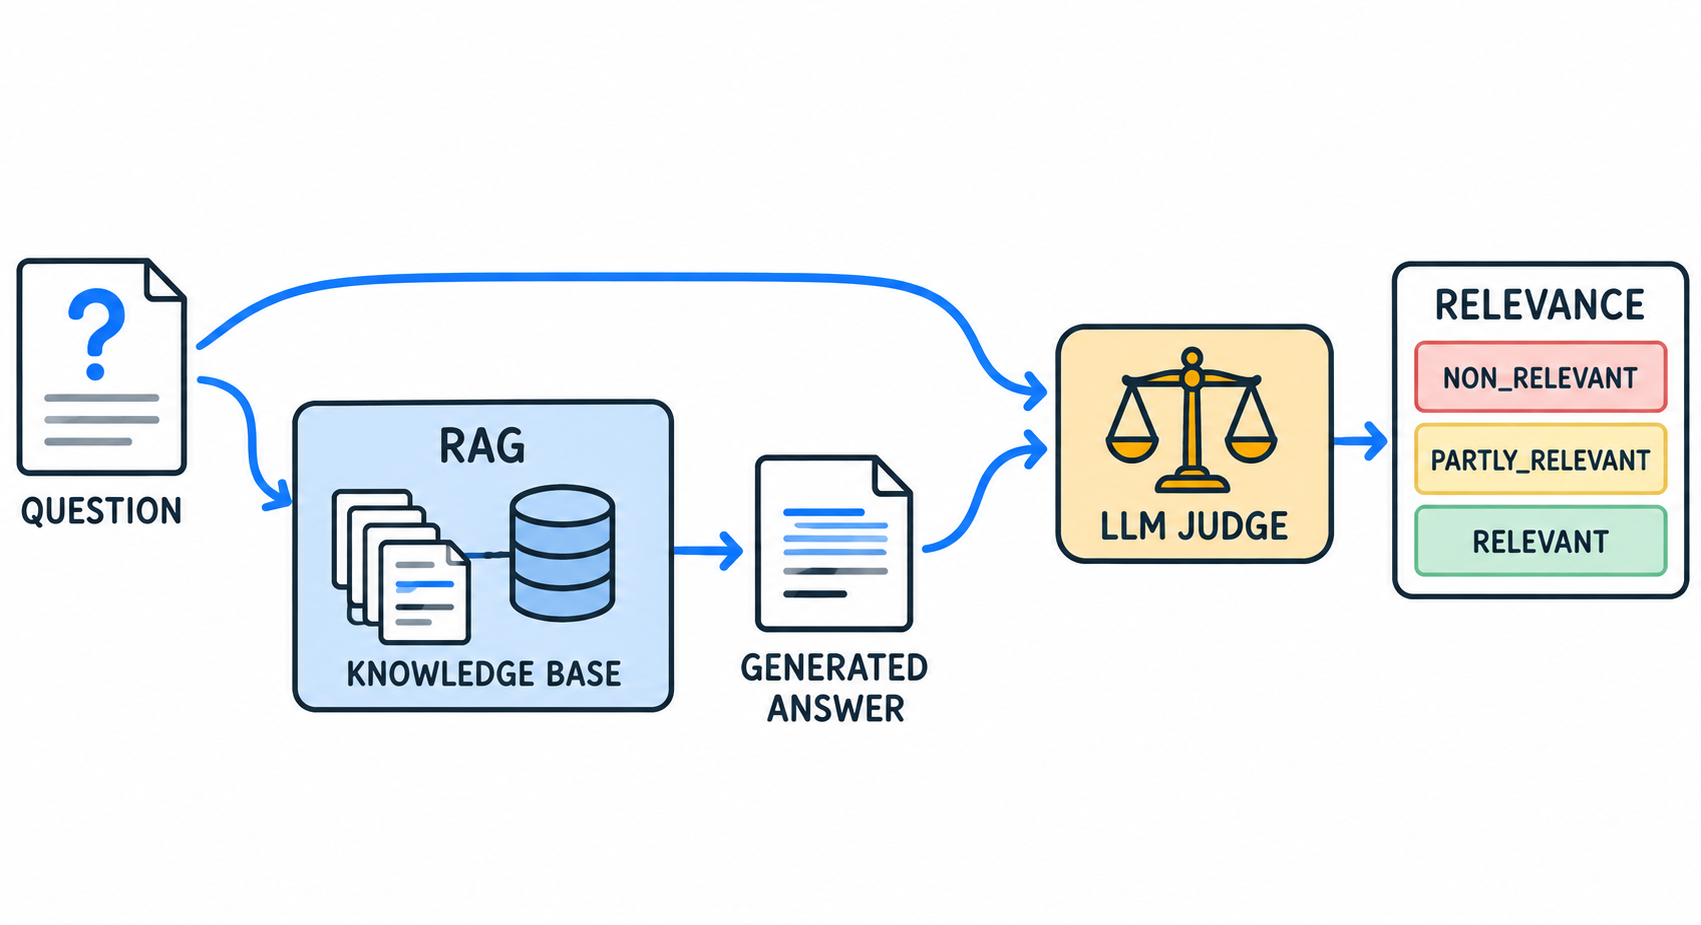
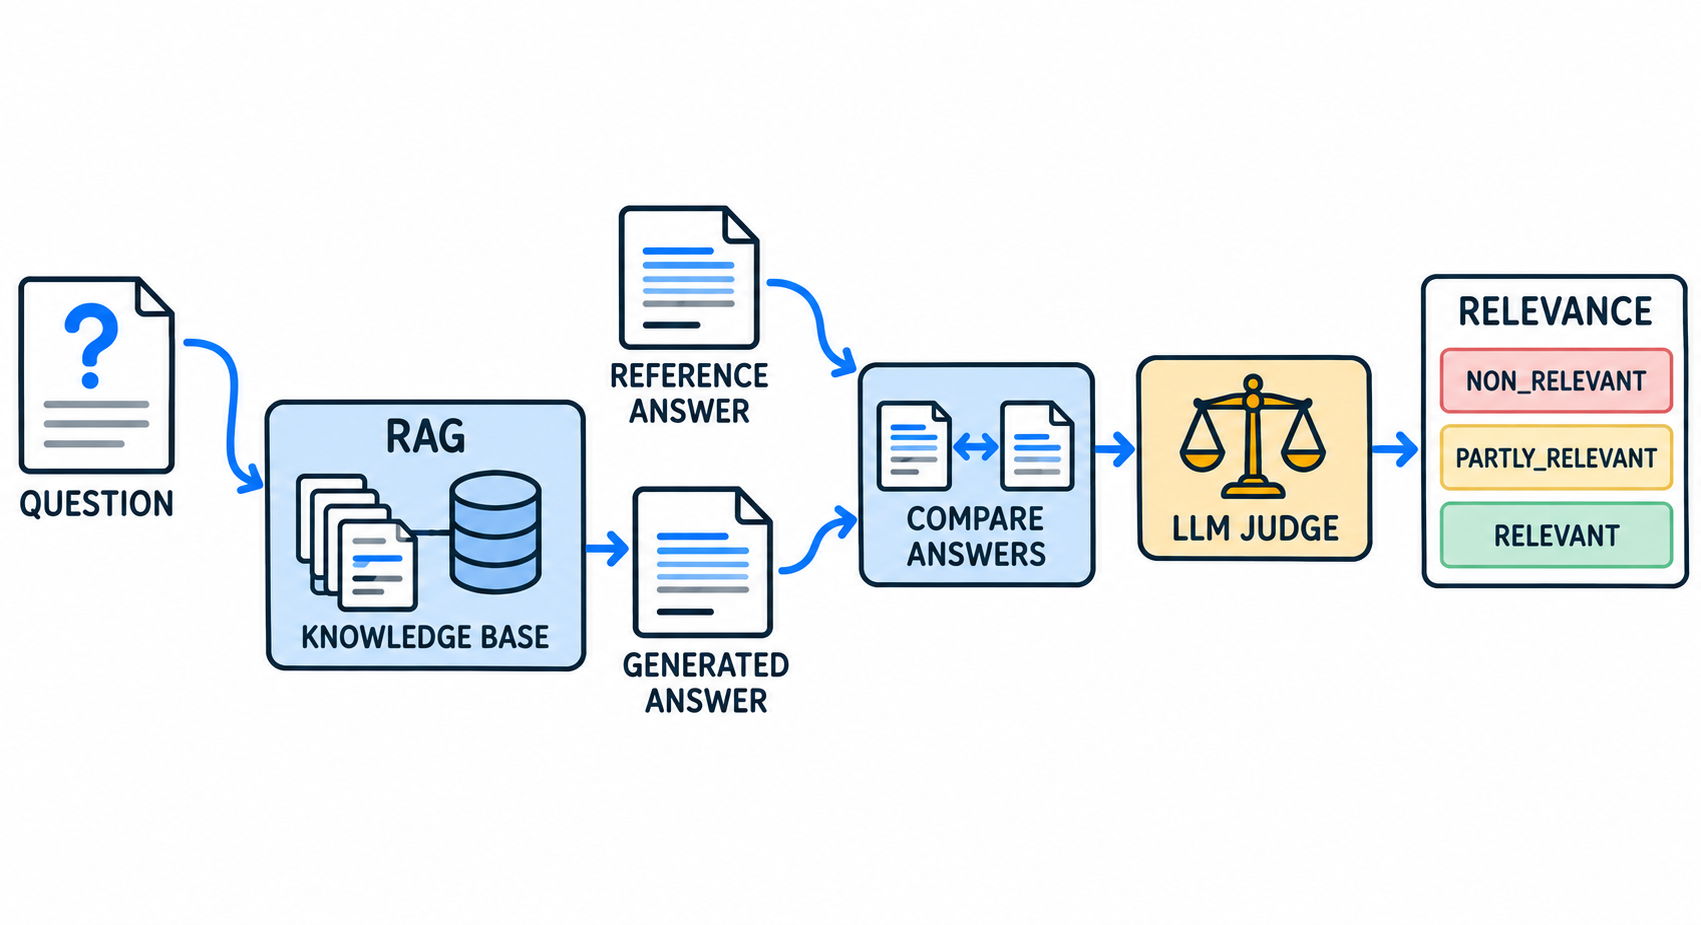
Repair LLM judge answer comparison illustration

Changed region(s): [[0.0, 0.2119, 0.9971, 0.787]]

diff --git a/.tmp/llm-orchestration-evaluation-image-rollout.md b/.tmp/llm-orchestration-evaluation-image-rollout.md
@@ -120,3 +120,15 @@ original screenshots.
 The five conceptual assets without local JPG sources require source-video
 recovery if a future audit needs a frame-level comparison. This batch does not
 claim such unavailable JPG provenance.
+
+## Focused repair batch 3: LLM-judge answer comparison (2026-09-09)
+
+The published illustration was regenerated with the built-in imagegen tool,
+not upscaled or sharpened. The previous semantic PNG was used as a reference
+because this conceptual asset has no original workshop JPG in the repository.
+The bounded crop was made from that PNG and is reconstructible from the
+recorded crop box.
+
+| Active reference | Source/reference inputs | Imagegen output | Verified invariant |
+|---|---|---|---|
[1 lines of base64/hex data omitted]
